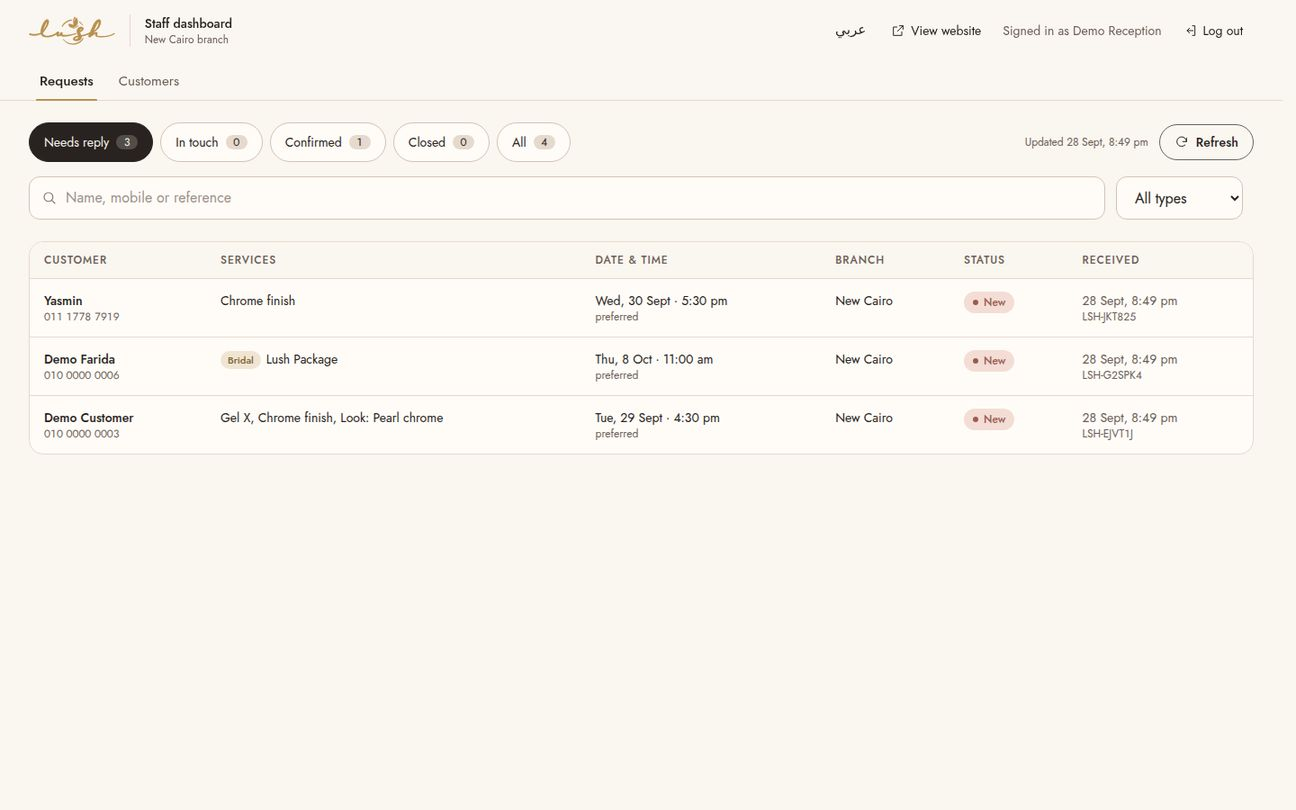
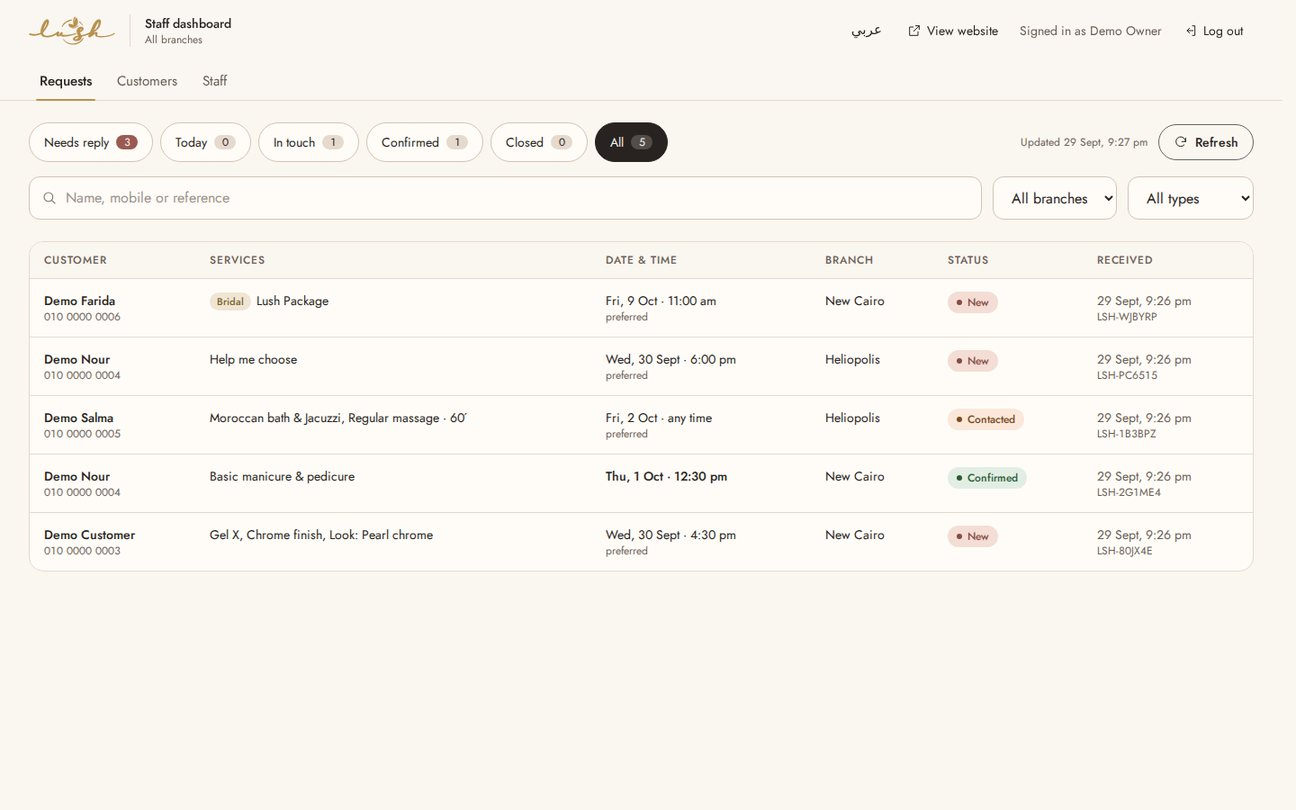
Refresh every README preview from the current build
- All 17 screenshots retaken on a freshly seeded demo database: desktop home
  (English and Arabic), menu with chosen services painted in, gallery, look
  viewer, bridal, the dashboard (with the Today filter), the drawer, and the
  mobile screens including the new request-sent state
- The old hero entrance frames are replaced by two strips of the painted-nail
  motion, captured from the running site at a quarter speed, and shown in the
  README's Motion section

Claude-Session: https://claude.ai/code/session_015r7zGZfvVx1m4jfweihHzA

diff --git a/README.md b/README.md
@@ -16,7 +16,7 @@ This is a **private client presentation**. The site sends `noindex, nofollow` un
 | --- | --- | --- |
 | ![](docs/previews/mobile-account-en.jpg) | ![](docs/previews/mobile-signup-in-flow.jpg) | ![](docs/previews/admin-requests.jpg) |
 
-More previews are in [`docs/previews`](docs/previews), including Arabic, the request drawer and the hero entrance frames.
+More previews are in [`docs/previews`](docs/previews), including Arabic, the request drawer and the nail-painting frames (see [Motion](#motion)).
 
 ## Run it
 
@@ -123,6 +123,12 @@ The site now needs a small Node server, not static hosting. Any VPS or Node host
 ## Motion
 
 Motion is choreographed rather than constant, and its signature comes from the salon itself: **every illustrated nail is painted the way a technician paints one.** It starts bare with a natural white tip. A stroke of polish goes down the centre, then one down each side, then tips, cat-eye light or hand-painted art go on, and finally a top-coat shine slides up the nail.
+
+![The hero as the page opens: the camouflage and headline arrive, the plate rises with bare nails, the set is painted nail by nail, and the finished set](docs/previews/hero-painting-frames.jpg)
+
+![A gallery look as it scrolls into view: bare nails, brush strokes going on, then the cat-eye light and top coat](docs/previews/gallery-painting-frames.jpg)
+
+*Frames captured from the running site, slowed to a quarter of its speed.*
 
 - **Hero on load:** the camouflage fades in, the headline reveals line by line, the framed plate rises with bare nails, and the set is painted nail by nail. With a mouse or trackpad, the camouflage layers drift apart slightly as the pointer moves.
 - **Gallery:** each look waits with bare nails and is painted as it scrolls into view. On hover, tiles lift and the top coat catches the light.
